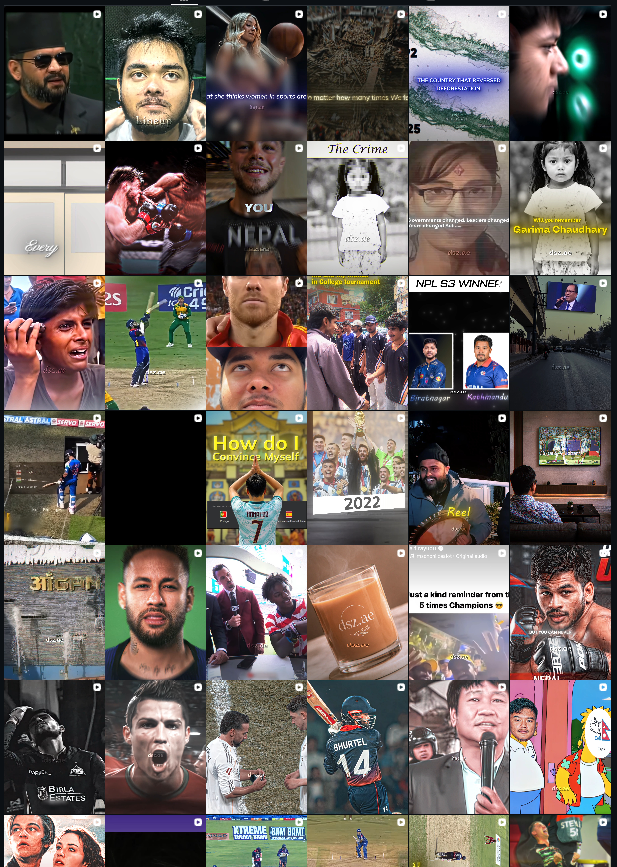
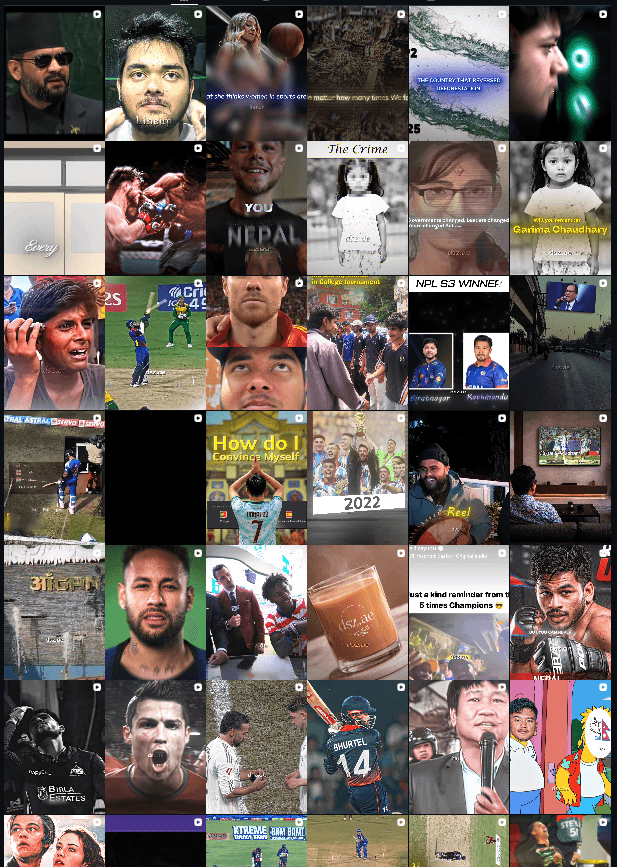
Optimize page load speed with static prerendering, edge caching, link prefetching, and asset compression

diff --git a/app/page.jsx b/app/page.jsx
@@ -152,16 +152,16 @@ export default function Home() {
                 </p>
 
                 <div className="hero-actions">
-                  <Link href="/projects" className="hero-button hero-button-primary">
+                  <Link href="/projects" prefetch={true} className="hero-button hero-button-primary">
                     <span>View Projects</span>
                     <svg className="w-4 h-4" viewBox="0 0 24 24" fill="none" stroke="currentColor" strokeWidth="2" aria-hidden="true">
                       <path strokeLinecap="round" strokeLinejoin="round" d="M5 12h14m-6-6 6 6-6 6" />
                     </svg>
                   </Link>
-                  <Link href="/contact" className="hero-button hero-button-secondary">
+                  <Link href="/contact" prefetch={true} className="hero-button hero-button-secondary">
                     Contact Me
                   </Link>
-                  <Link href="/resume" className="hero-cv-link">
+                  <Link href="/resume" prefetch={true} className="hero-cv-link">
                     <span>View Resume</span>
                     <svg className="w-4 h-4" viewBox="0 0 24 24" fill="none" stroke="currentColor" strokeWidth="1.8" aria-hidden="true">
                       <path strokeLinecap="round" strokeLinejoin="round" d="M14 5l7 7m0 0l-7 7m7-7H3" />
@@ -257,6 +257,8 @@ export default function Home() {
                       alt={`${project.name} project preview`}
                       width={993}
                       height={450}
+                      sizes="(max-width: 768px) 100vw, (max-width: 1200px) 33vw, 380px"
+                      loading="lazy"
                       className="h-40 w-full object-cover"
                     />
                     <div className="p-5">
@@ -295,6 +297,7 @@ export default function Home() {
                   <Link
                     key={section.href}
                     href={section.href}
+                    prefetch={true}
                     className="group flex flex-col justify-between p-5 rounded-2xl border border-slate-200 dark:border-[#222933] bg-white dark:bg-[#0F1216] shadow-sm hover:border-[#065F46]/60 dark:hover:border-[#34D399]/60 hover:-translate-y-0.5 transition-all"
                   >
                     <div>

diff --git a/app/layout.jsx b/app/layout.jsx
@@ -1,5 +1,4 @@
 import React from 'react';
-import { cookies } from 'next/headers';
 import { Manrope } from 'next/font/google';
 
 const manrope = Manrope({
@@ -15,6 +14,8 @@ import AnalyticsTracker from '@/components/AnalyticsTracker';
 import { getSiteSettings } from '@/lib/dataService';
 import 'katex/dist/katex.min.css';
 import './globals.css';
+
+export const revalidate = 60;
 
 export async function generateMetadata() {
   const settings = await getSiteSettings();
@@ -121,9 +122,6 @@ export const viewport = {
 };
 
 export default async function RootLayout({ children }) {
-  const cookieStore = await cookies();
-  const themeCookie = cookieStore.get('theme')?.value;
-  const initialTheme = themeCookie === 'light' ? 'light' : 'dark';
   const settings = await getSiteSettings();
   const safeFeaturesJson = JSON.stringify({
     announcement: settings.announcement || null,
@@ -131,7 +129,7 @@ export default async function RootLayout({ children }) {
   }).replace(/</g, '\\u003c');
 
   return (
-    <html lang="en" className={`${initialTheme} ${manrope.variable}`} suppressHydrationWarning>
+    <html lang="en" className={`dark ${manrope.variable}`} suppressHydrationWarning>
       <head>
         <link rel="author" href="/" />
         <link rel="alternate" type="text/markdown" href="/.well-known/llms.txt" title="AI-readable site information" />

diff --git a/components/SiteLayout.jsx b/components/SiteLayout.jsx
@@ -469,6 +469,7 @@ export default function SiteLayout({ children, selectedImage, setSelectedImage }
                 <Link 
                   key={link.id} 
                   href={link.path} 
+                  prefetch={true}
                   itemProp="url"
                   aria-current={active ? 'page' : undefined}
                   className={`site-nav-link ${active ? 'is-active' : ''}`}
@@ -529,6 +530,7 @@ export default function SiteLayout({ children, selectedImage, setSelectedImage }
               <Link
                 key={`mobile-${link.id}`}
                 href={link.path}
+                prefetch={true}
                 itemProp="url"
                 aria-current={active ? 'page' : undefined}
                 tabIndex={isMenuOpen ? 0 : -1}

diff --git a/next.config.js b/next.config.js
@@ -20,7 +20,11 @@ const contentSecurityPolicy = [
 
 const nextConfig = {
   trailingSlash: false,
+  compress: true,
+  poweredByHeader: false,
   images: {
+    formats: ['image/avif', 'image/webp'],
+    minimumCacheTTL: 31536000,
     remotePatterns: [
       {
         protocol: 'https',
@@ -113,6 +117,15 @@ const nextConfig = {
           {
             key: 'Origin-Agent-Cluster',
             value: '?1',
+          },
+        ],
+      },
+      {
+        source: '/(.*\\.(?:ico|png|jpg|jpeg|webp|avif|svg|woff2|woff))',
+        headers: [
+          {
+            key: 'Cache-Control',
+            value: 'public, max-age=31536000, stale-while-revalidate=86400',
           },
         ],
       },

diff --git a/app/globals.css b/app/globals.css
@@ -1299,8 +1299,8 @@ button:hover .smooth-img-zoom {
 
 @keyframes fadeDownToUp {
   0% {
-    opacity: 0;
-    transform: translateY(18px);
+    opacity: 0.85;
+    transform: translateY(6px);
   }
   100% {
     opacity: 1;
@@ -1309,7 +1309,7 @@ button:hover .smooth-img-zoom {
 }
 
 .fade-down-to-up {
-  animation: fadeDownToUp 480ms cubic-bezier(0.16, 1, 0.3, 1) both;
+  animation: fadeDownToUp 180ms cubic-bezier(0.16, 1, 0.3, 1) both;
   will-change: opacity, transform;
 }
 
